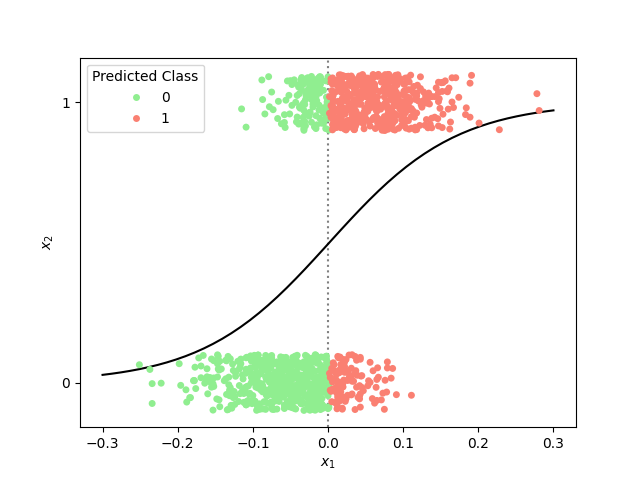
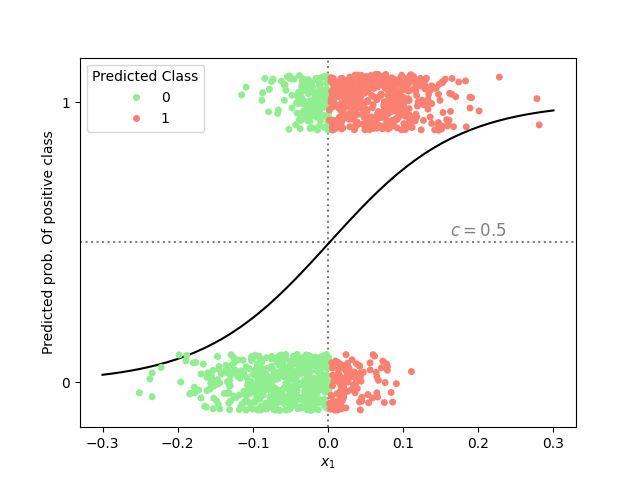
made changes for some of the plots for 4. modelling

diff --git a/Code/Metric_calculation.py b/Code/Metric_calculation.py
@@ -1,0 +1,63 @@
+import math
+
+def calculate_metrics(tp: int, fp: int, tn: int, fn: int):
+
+    if (tp + fp + tn + fn) == 0:
+        return {"error": "Total predictions cannot be zero."}
+
+    # Total number of observations
+    total = tp + fp + tn + fn
+
+    # 1. Accuracy: Overall correctness of the model.
+    # Formula: (TP + TN) / Total
+    accuracy = (tp + tn) / total if total > 0 else 0
+
+    # 2. Sensitivity (Recall): Ability of the model to find all positive samples.
+    # Formula: TP / (TP + FN) - True Positive Rate (TPR)
+    sensitivity = tp / (tp + fn) if (tp + fn) > 0 else 0
+
+    # 3. Specificity: Ability of the model to correctly identify negative samples.
+    # Formula: TN / (TN + FP) - True Negative Rate (TNR)
+    specificity = tn / (tn + fp) if (tn + fp) > 0 else 0
+
+    # 4. Precision: Ability of the model not to label as positive a sample that is negative.
+    # Formula: TP / (TP + FP)
+    precision = tp / (tp + fp) if (tp + fp) > 0 else 0
+
+    # 5. F1 Score: The harmonic mean of Precision and Sensitivity (Recall).
+    # Formula: 2 * (Precision * Recall) / (Precision + Recall)
+    if (precision + sensitivity) > 0:
+        f1_score = 2 * (precision * sensitivity) / (precision + sensitivity)
+    else:
+        f1_score = 0
+
+    return {
+        "Accuracy": accuracy,
+        "Sensitivity (Recall)": sensitivity,
+        "Specificity": specificity,
+        "Precision": precision,
+        "F1 Score": f1_score,
+    }
+
+def print_results(title, metrics, tp, fp, tn, fn):
+    """Formats and prints the calculated metrics."""
+    print(f"\n--- {title} ---")
+    print(f"TP: {tp}, FP: {fp}, TN: {tn}, FN: {fn}")
+    print("-" * (len(title) + 8))
+    for metric, value in metrics.items():
+        # Displaying values with 4 decimal places for clarity
+        print(f"{metric:<25}: {value:.4f}")
+    print("-" * (len(title) + 8))
+
+
+# Example 1: The distribution shown in the provided image (TP=10, FP=20, TN=75, FN=0)
+tp_1, fp_1, tn_1, fn_1 = 10, 20, 75, 0
+metrics_1 = calculate_metrics(tp_1, fp_1, tn_1, fn_1)
+print_results("User's Original Distribution", metrics_1, tp_1, fp_1, tn_1, fn_1)
+
+
+# Example 2: A new distribution designed to clearly show differences between metrics.
+# This set illustrates a model with high Precision but moderate Sensitivity.
+tp_2, fp_2, tn_2, fn_2 = 24, 5, 25, 4
+metrics_2 = calculate_metrics(tp_2, fp_2, tn_2, fn_2)
+print_results("New Illustrative Distribution (High Precision, Moderate Sensitivity)", metrics_2, tp_2, fp_2, tn_2, fn_2)

diff --git a/images/Log_reg_decision_boundary.py b/images/Log_reg_decision_boundary.py
@@ -37,6 +37,8 @@ def sigmoid(z):
     return 1/(1+np.exp(-z))
 
 plt.axvline(x=0.0, color='grey', linestyle=':', linewidth=1.5)
+plt.axhline(y=0.5, color='grey', linestyle=':', linewidth=1.5)
+plt.text(0.2, 0.51, '$c=0.5$', ha='center', va='bottom', color='grey', fontsize=12)
 
 x = np.linspace(-0.3, 0.3)
 custom_palette = {0: "lightgreen", 1: "salmon"}
@@ -44,7 +46,7 @@ sns.stripplot(data=games, x="GOAL_DIFF", y="WON", hue="Predicted Class", orient=
 plt.plot(x, sigmoid(model.intercept_ + model.coef_[0]*x), "k")
 plt.gca().invert_yaxis();
 plt.xlabel("$x_1$")
-plt.ylabel("$x_2$")
+plt.ylabel("Predicted prob. Of positive class")
 
 plt.savefig('Log_reg_decision_boundary.png')
 

diff --git a/images/class_reg_illustration.py b/images/class_reg_illustration.py
@@ -12,8 +12,8 @@ X1 = np.random.randn(50, 2) + np.array([2, 2])
 X2 = np.random.randn(50, 2) + np.array([-2, -2])
 
 # Plot the data
-ax1.scatter(X1[:, 0], X1[:, 1], color='salmon', label='Class 1')
-ax1.scatter(X2[:, 0], X2[:, 1], color='lightgreen', label='Class 0')
+ax1.scatter(X1[:, 0], X1[:, 1], color='salmon', label='Negative')
+ax1.scatter(X2[:, 0], X2[:, 1], color='lightgreen', label='Positive')
 
 # --- Start of Classification Boundary Addition ---
 
